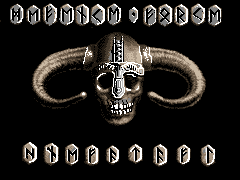
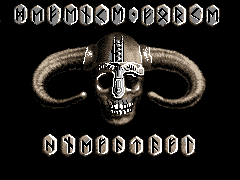
with screen fader and new graphics

Changed region(s): [[0.0875, 0.7222, 0.9042, 0.9444], [0.0292, 0.0, 0.525, 0.1667], [0.5833, 0.0, 0.9333, 0.1667]]

diff --git a/users/barnsey123/HNEFATAFL-LOADER/main.c b/users/barnsey123/HNEFATAFL-LOADER/main.c
@@ -5,8 +5,9 @@
 // adding routine to wipe the screen
 #include <lib.h>
 void WipeScreen();
+void Pause();
 extern unsigned char LabelPicture[];
-
+unsigned int PauseTime;
 
 void file_unpackc(unsigned char *buf_dest,unsigned char *buf_src)
 {
@@ -74,28 +75,42 @@ void file_unpackc(unsigned char *buf_dest,unsigned char *buf_src)
 	*(unsigned char*)(0xbfde)=18;
 }
 /*
- WipeScreen wipes the hires screen attaractively
+ WipeScreen wipes the hires screen attractively
 */
 void WipeScreen(){
 	unsigned char Row;
+	unsigned int Cell;
 	//unsigned int EvenScreenAddress=0xA001;	// start address of hires screen (even rows)
 	//unsigned int OddScreenAddress=0xA029;   // start address of hires screen (odd rows)
 	unsigned int StartAddress;
 	unsigned char x;
 	unsigned char z;
-	for ( x=0; x<2 ; x++ ){
-		StartAddress=0xA001;
-		z=196;
-		if (x==1){
-			StartAddress=0xA029;
-			z=197;
-		}
-		for (Row=x; Row<z; Row+=2){
-			poke(StartAddress+(Row*40),0x0000);	// black
+	unsigned char Count;
+	char Color;
+	PauseTime=55000; Pause();	// linger on screen for a while
+	for (Color=7;Color>=0;Color--){ // cycle through colors before blanking
+		for ( x=0; x<2 ; x++ ){
+			Count=0;
+			StartAddress=0xA001;
+			z=198;
+			if (x==1){
+				StartAddress=0xA029;
+				z=199;
+			}
+			//poke(StartAddress,0x0000);
+			PauseTime=1250;Pause();
+			for (Row=x; Row<=z; Row+=2){
+				poke(StartAddress+(Count*80),Color);	
+				Count++;
+			}
 		}
 	}
 }
-
+/* paustime */
+void Pause(){
+  int p;
+  for (p=0; p<PauseTime;p++){};
+}
 void main()
 {
 	hires();
